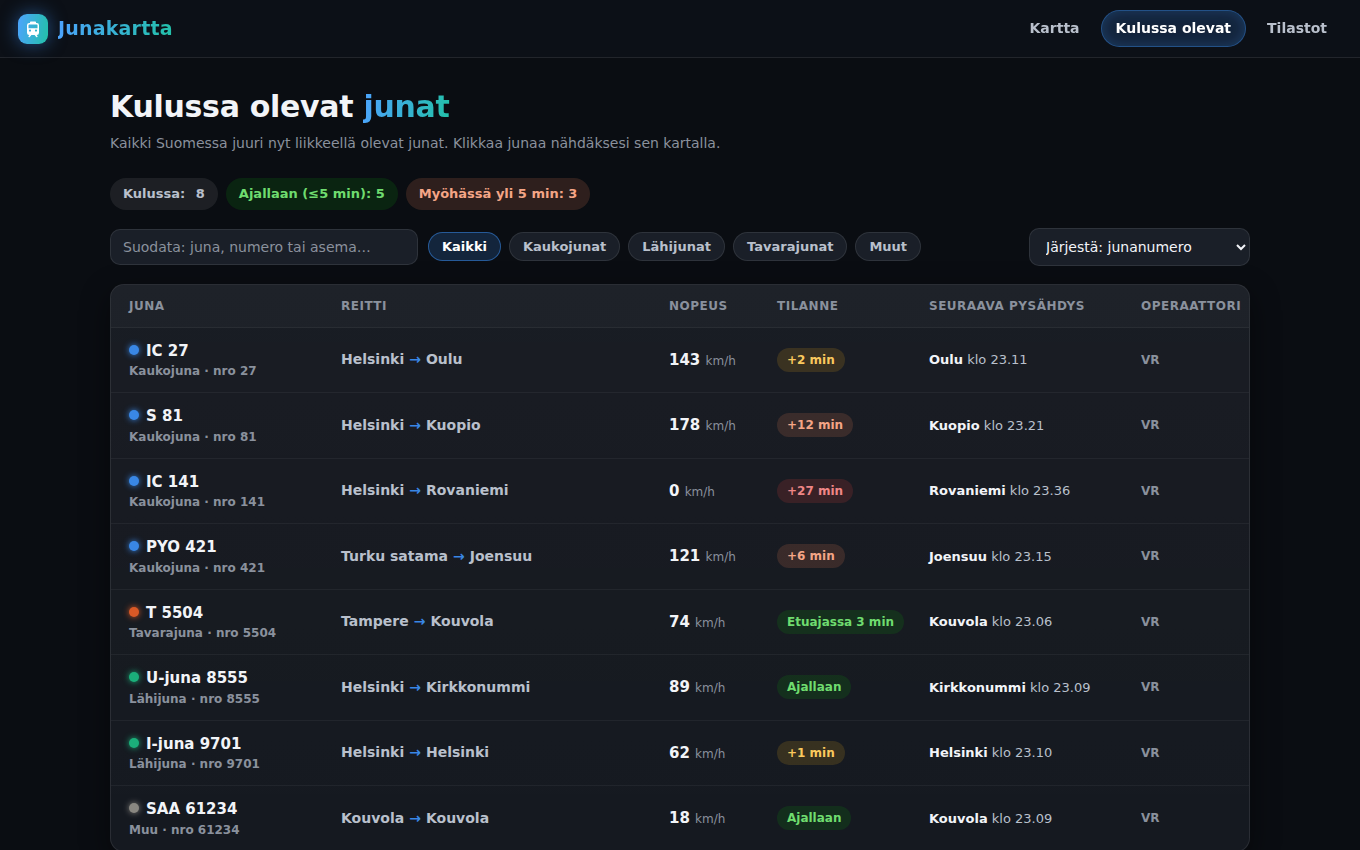
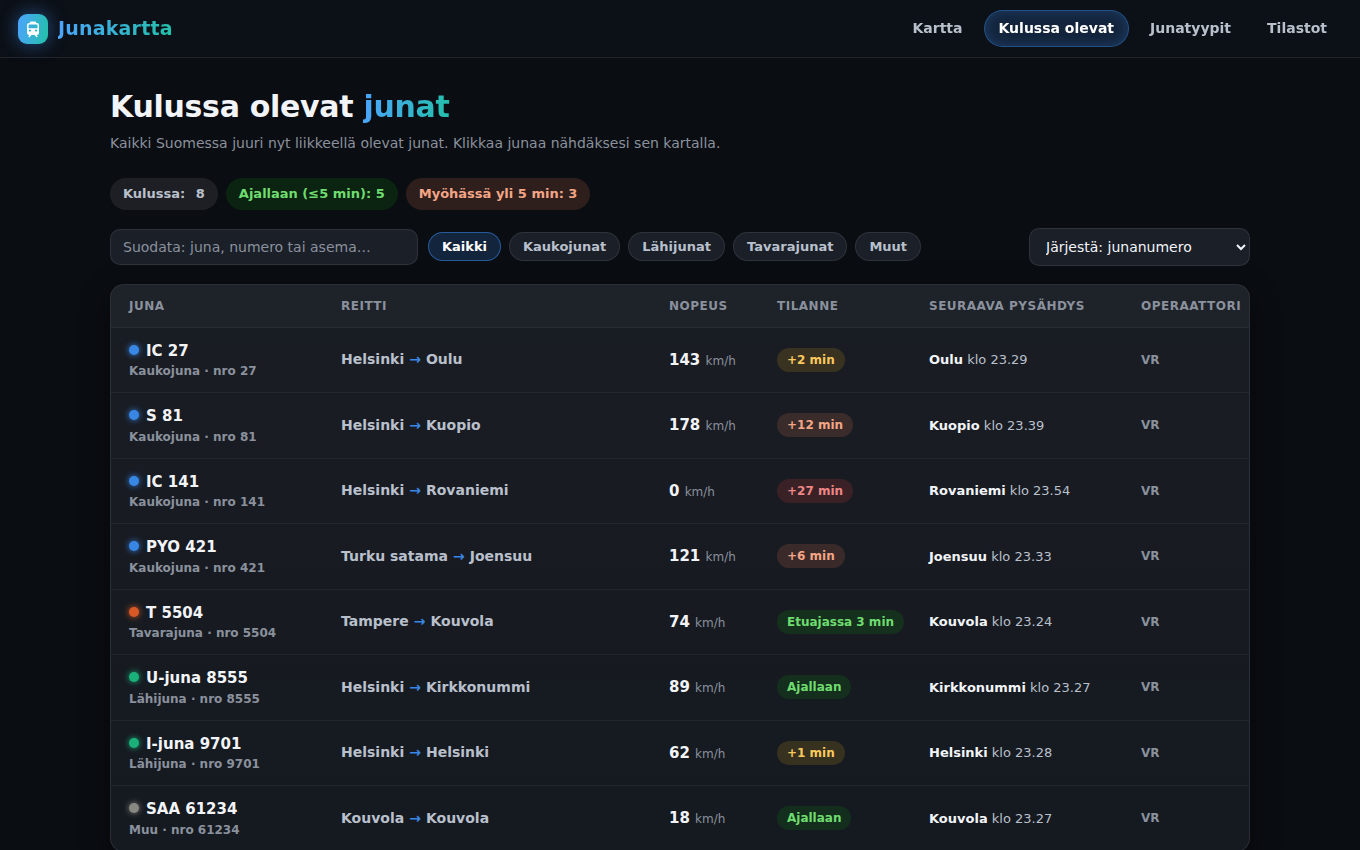
Päivitä README ja kuvat vastaamaan nykytilaa
- Tuoreet kuvakaappaukset (Junatyypit-navigointi ja suodattimet näkyvissä)
  ja uusi kuvakaappaus Junatyypit-sivusta
- Versionhallintakaavio päivitetty: kolme mergettyä PR:ää ja
  haaran uudelleenaloitus mergejen välissä
- Esittely, taustakarttojen kuvaus ja sivumäärä ajan tasalle

Claude-Session: https://claude.ai/code/session_015e86v3NhcUHaCnmbDR9nkW

Changed region(s): [[0.6794, 0.0, 0.9265, 0.0612], [0.7721, 0.7953, 0.8029, 0.8259]]

diff --git a/README.md b/README.md
@@ -2,8 +2,9 @@
 
 Interaktiivinen selainsovellus, joka näyttää **Suomen junaliikenteen livenä**
 [Fintrafficin Digitraffic-rajapinnan](https://www.digitraffic.fi/rautatieliikenne/) avoimilla tiedoilla.
-Junat liikkuvat kartalla reaaliajassa, kulussa olevat junat voi selata listana ja
-liikenteen tunnusluvut lasketaan lennossa.
+Junat liikkuvat kartalla reaaliajassa, kulussa olevat junat voi selata listana,
+junatyypit (IC, S, PYO, HDM, T ym.) on esitelty omalla sivullaan ja liikenteen
+tunnusluvut lasketaan lennossa – junatyypeittäin suodatettuina.
 
 **➡ Kokeile livenä: [paanpe.github.io/claude_junat](https://paanpe.github.io/claude_junat/)**
 
@@ -86,9 +87,13 @@ Luvut päivittyvät minuutin välein.
 
 ## Kuvakaappaukset
 
-| Kulussa olevat junat | Tilastot |
+| Kulussa olevat junat | Junatyypit |
 |---|---|
-| ![Kulussa olevat junat -sivu](docs/kuvat/junat.png) | ![Tilastosivu](docs/kuvat/tilastot.png) |
+| ![Kulussa olevat junat -sivu](docs/kuvat/junat.png) | ![Junatyypit-sivu](docs/kuvat/junatyypit.png) |
+
+| Tilastot junatyyppisuodattimineen | |
+|---|---|
+| ![Tilastosivu](docs/kuvat/tilastot.png) | |
 
 *(Kuvat on otettu sovelluksen kehitystilasta; karttanäkymän näet parhaiten
 [live-sivustolla](https://paanpe.github.io/claude_junat/).)*
@@ -145,7 +150,7 @@ sovellus ei riipu CDN-palveluista.
 └── .nojekyll                    # Estää Jekyll-käsittelyn Pagesissa
 ```
 
-Kaikki kolme sivua jakavat saman `api.js`-kerroksen, joka hoitaa HTTP-kutsut
+Kaikki neljä sivua jakavat saman `api.js`-kerroksen, joka hoitaa HTTP-kutsut
 (mukaan lukien `Digitraffic-User`-tunnisteotsakkeen ja CORS-varautumisen),
 aikamuotoilut sekä junadatan tulkinnan (reitti, myöhästyminen, seuraava
 pysähdys, junatyyppi).
@@ -164,7 +169,8 @@ CORS-pyynnöt.
 
 Karttatasot:
 
-- Taustakartta: [CARTO Dark Matter](https://carto.com/) (© OpenStreetMap © CARTO)
+- Taustakartat: [CARTO](https://carto.com/) Voyager (selkeä, oletus) ja
+  Dark Matter (tumma) (© OpenStreetMap © CARTO)
 - Rataverkko: [OpenRailwayMap](https://www.openrailwaymap.org/) (CC-BY-SA)
 
 ## Julkaisu GitHub Pagesiin
@@ -193,12 +199,17 @@ Repo noudattaa kevyttä feature branch -mallia:
 - **Kehitys tehdään feature-haaroissa** (esim.
   `claude/finnish-train-map-app-pefo7b`), joissa muutokset committoidaan
   pienissä, kuvaavissa erissä suomenkielisin commit-viestein.
-- **Muutokset yhdistetään pull requestilla** `main`-haaraan
-  (esim. [PR #1](https://github.com/paanpe/claude_junat/pull/1), jolla
-  sovellus ja julkaisutyönkulku tuotiin repoon). PR kokoaa muutokset
-  katselmoitavaksi ennen julkaisua.
-- Mergen jälkeen feature-haara aloitetaan tarvittaessa uudelleen tuoreesta
-  `main`-haarasta, jotta uusi työ ei kasaudu jo yhdistetyn historian päälle.
+- **Muutokset yhdistetään pull requestilla** `main`-haaraan. PR kokoaa
+  muutokset katselmoitavaksi ennen julkaisua. Tähän mennessä mergetyt:
+  - [PR #1](https://github.com/paanpe/claude_junat/pull/1) – sovellus ja
+    Pages-julkaisutyönkulku
+  - [PR #2](https://github.com/paanpe/claude_junat/pull/2) – README-laajennus
+    kuvineen
+  - [PR #3](https://github.com/paanpe/claude_junat/pull/3) – selkeä
+    karttapohja, junatyyppisuodattimet ja Junatyypit-sivu
+- Mergen jälkeen feature-haara aloitetaan uudelleen tuoreesta
+  `main`-haarasta (tai rebasetaan sen päälle), jotta uusi työ ei kasaudu jo
+  yhdistetyn historian päälle.
 
 ## Lisenssit ja attribuutiot
 
